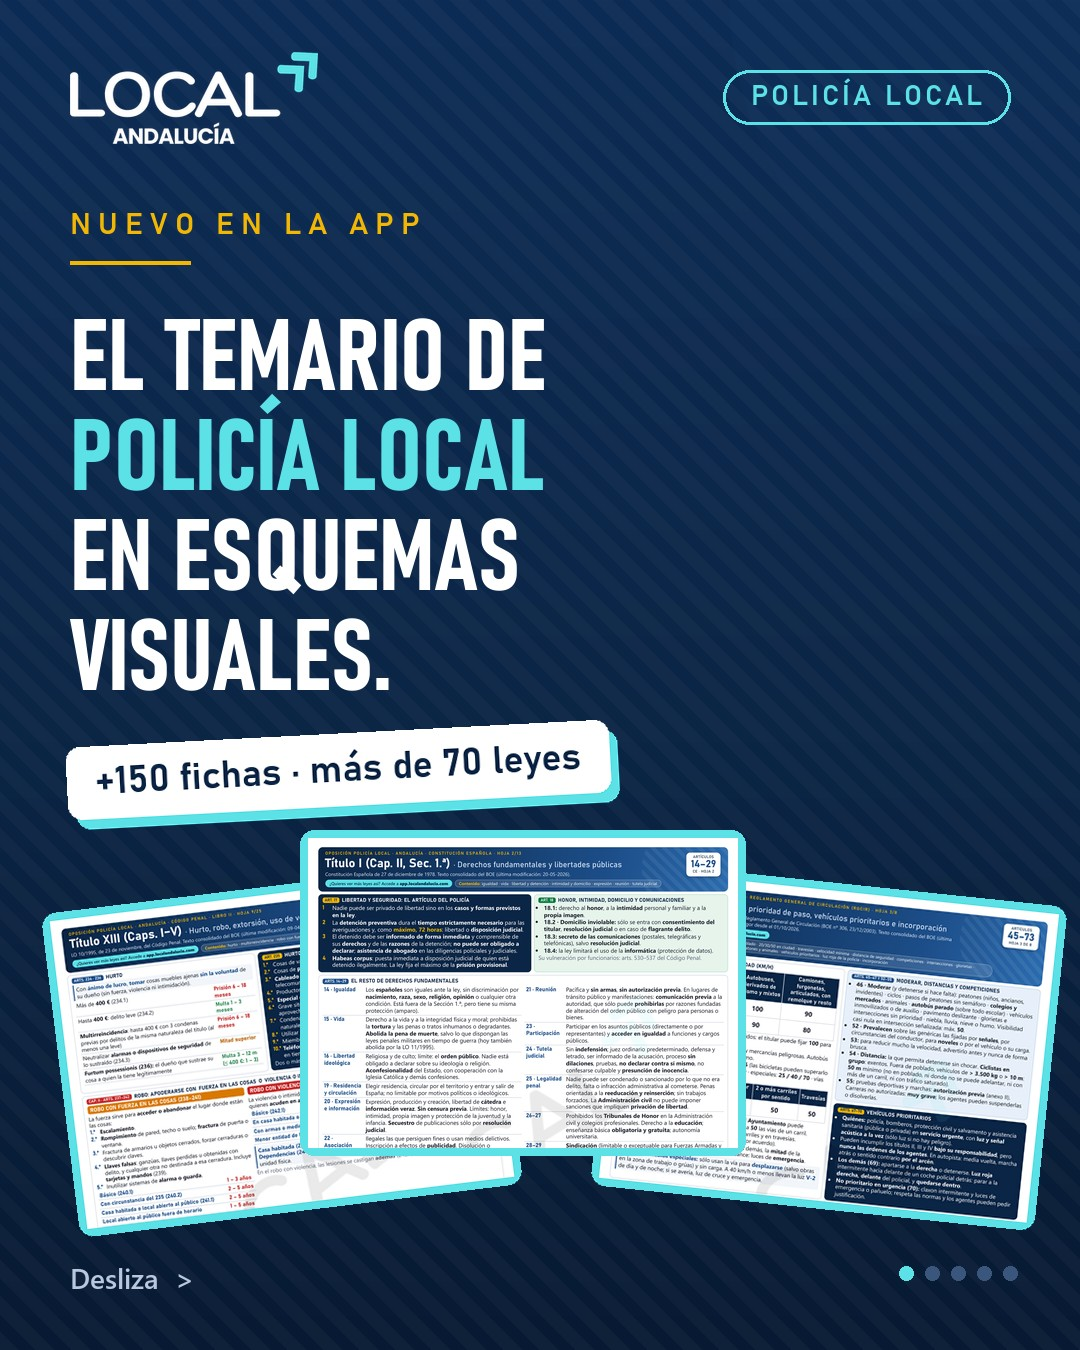
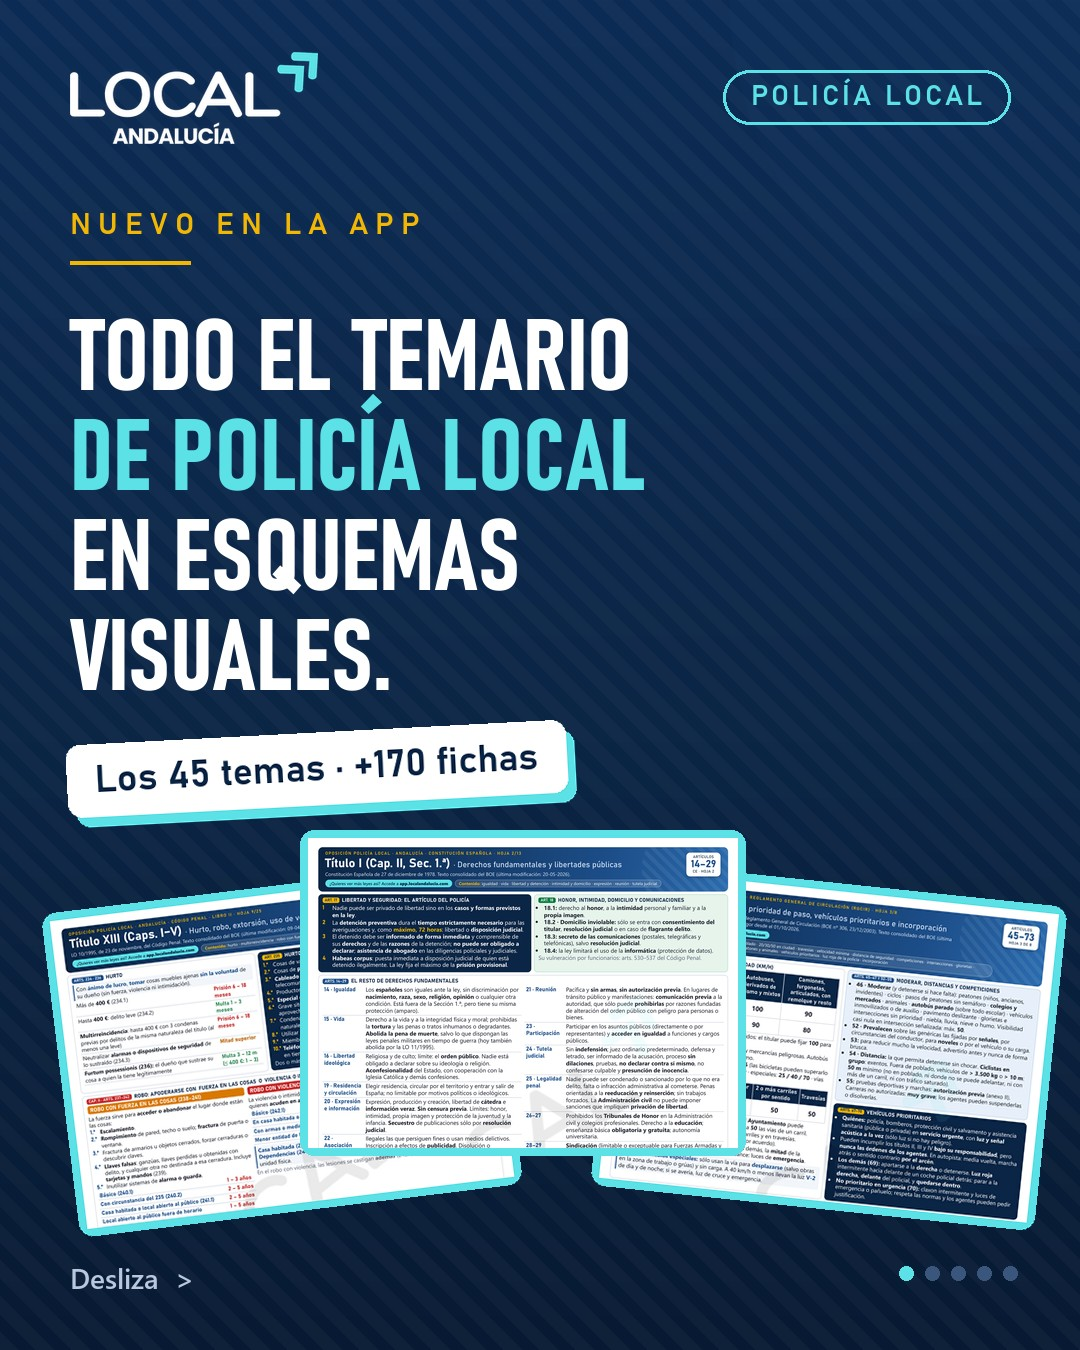
Anuncio: todo el temario (45 temas)

Changed region(s): [[0.0611, 0.2178, 0.6111, 0.3733], [0.0611, 0.5289, 0.5806, 0.6222]]

diff --git a/generador/anuncio_esquemas.py b/generador/anuncio_esquemas.py
@@ -51,11 +51,11 @@ def slides():
     # 1. portada: titular + abanico de fichas
     img, d = C.lienzo("NUEVO EN LA APP")
     y = C.TOP - 20
-    for texto, color in (("EL TEMARIO DE", C.BLANCO), ("POLICÍA LOCAL", C.CIAN), ("EN ESQUEMAS", C.BLANCO), ("VISUALES.", C.BLANCO)):
+    for texto, color in (("TODO EL TEMARIO", C.BLANCO), ("DE POLICÍA LOCAL", C.CIAN), ("EN ESQUEMAS", C.BLANCO), ("VISUALES.", C.BLANCO)):
         f, _, _ = C.ajustar(d, texto, C.TIT, W - 2 * M, 104, 100, 56, 1.0)
         d.text((M, y), texto, font=f, fill=color)
         y += 100
-    C.pegatina(img, "+150 fichas · más de 70 leyes", (M - 6, y + 8), angulo=-3, tam=38)
+    C.pegatina(img, "Los 45 temas · +170 fichas", (M - 6, y + 8), angulo=-3, tam=38)
     y += 120
     alto = C.LIMITE - y - 60
     for k, ang, x in (("cp", 7, 40), ("rgc", -6, 590), ("ce", 0, 300)):
@@ -109,11 +109,11 @@ def slides():
     img, d = C.lienzo("TODOS LOS BLOQUES")
     y = C.TOP - 20
     bloques = [
-        ("Constitución y Estatuto", "CE, Estatuto de Andalucía, TC, Poder Judicial, Defensor del Pueblo"),
+        ("Constitución y Estatuto", "CE, Estatuto de Andalucía, Unión Europea, TC, Poder Judicial"),
         ("Administración y función pública", "Leyes 39 y 40/2015, LBRL, LAULA, padrón, TREBEP"),
         ("Policía Local y seguridad", "Ley 6/2023, Decreto 8/2026, LO 2/1986, Seguridad Ciudadana, armas"),
         ("Penal y procesal", "Código Penal (34 fichas), LECrim, detención, menores, víctima"),
-        ("Tráfico y transporte", "Ley de Tráfico, Circulación, Conductores, Vehículos, LOTT, taxi y VTC"),
+        ("Tráfico y transporte", "Ley de Tráfico, Circulación, Conductores, Vehículos, LOTT, accidentes"),
         ("Policía administrativa", "Consumo, comercio, espectáculos, urbanismo, medio ambiente, animales"),
         ("Igualdad y violencia de género", "LO 1/2004, LO 3/2007, LO 10/2022, LGTBI, deontología"),
     ]
@@ -135,7 +135,7 @@ def slides():
         d.text((M, y), texto, font=f, fill=color)
         y += 96
     y += 24
-    items = ["Más de 150 fichas, ley a ley", "Cada parte de la ley en una hoja", "Cifras, plazos y multas clave",
+    items = ["Los 45 temas, +170 fichas", "Cada parte de la ley en una hoja", "Cifras, plazos y multas clave",
              "Consejos y trampas de examen"]
     alto = 84 + len(items) * 52
     d.rounded_rectangle((M, y, W - M, y + alto), radius=26, fill=(255, 255, 255))
@@ -158,9 +158,9 @@ def slides():
 
 def texto():
     return "\n\n".join([
-        "📚 Ya tienes el temario de Policía Local en esquemas visuales.",
-        "Más de 150 fichas de más de 70 leyes: Constitución, Estatuto, Código Penal, LECrim, Ley 6/2023, "
-        "tráfico, policía administrativa, igualdad… Cada ficha resume una parte de la ley en una hoja, "
+        "📚 Ya tienes todo el temario de Policía Local en esquemas visuales: los 45 temas.",
+        "Más de 170 fichas de más de 70 leyes: Constitución, Estatuto, Unión Europea, Código Penal, LECrim, "
+        "Ley 6/2023, tráfico y accidentes, policía administrativa, igualdad… Cada ficha resume una parte de la ley en una hoja, "
         "con las cifras, los plazos y las trampas que más caen en el examen.",
         f"Las tienes en {C.URL_APP} → {I.RUTA_APP} (enlace en la bio).",
         "📌 Guárdalo y compártelo con quien esté preparando la oposición.",
